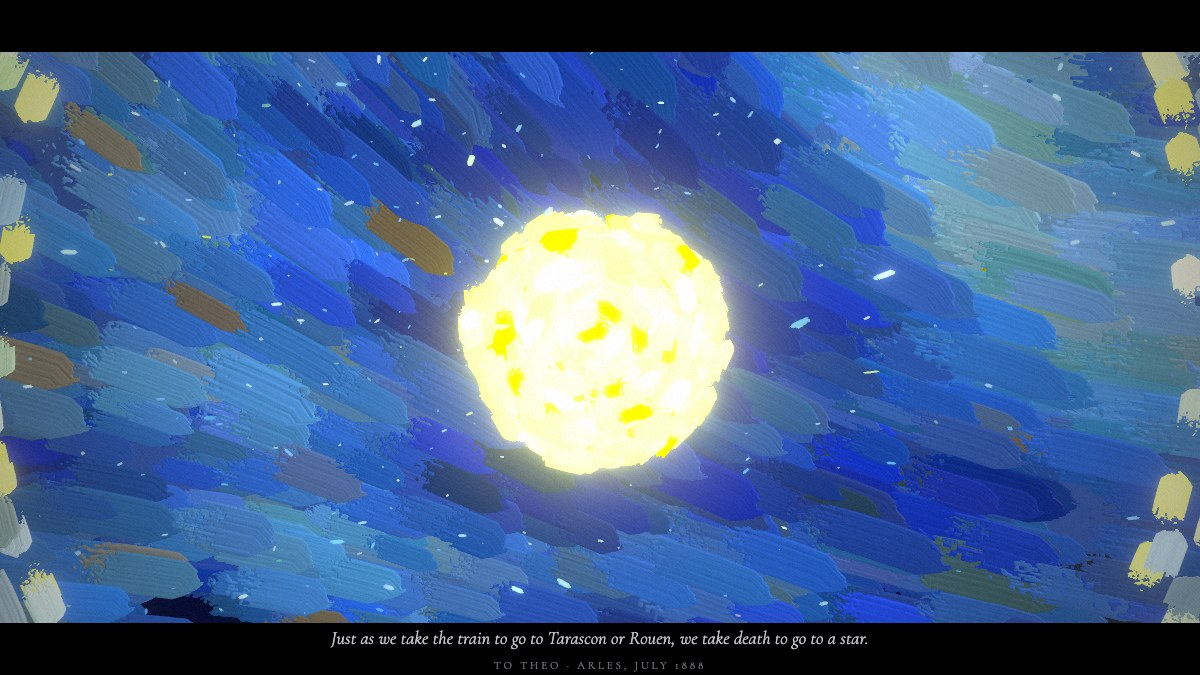
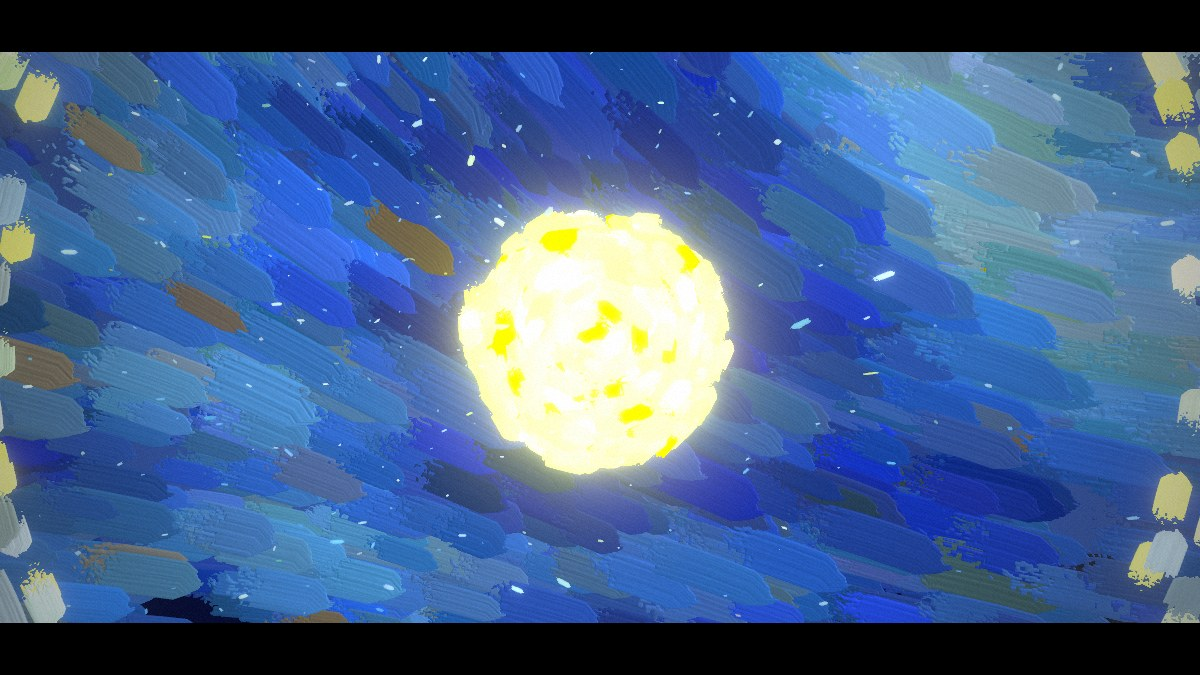
E2.2: no line at the end -- letter 638 taken off the morning star, and the star's well and its light go without words

Changed region(s): [[0.2775, 0.9333, 0.74, 0.9956], [0.8942, 0.8089, 0.925, 0.84], [0.7092, 0.5289, 0.74, 0.56]]

diff --git a/src/film.js b/src/film.js
@@ -16,8 +16,8 @@
 // direction in the sky, or the way ahead -- and the gaze eases from one to the next. (3) The body banks into its
 // turns a little, as a bird does, and breathes; the lens widens with speed. (4) The world's clock is the film's to
 // bend: held nearly still at the top of the spire, where the loose sunflowers hang, and hurried in the sky, where the
-// swirls and the rings turn three times as fast. (5) His words, one an act, in the black band under the picture:
-// the lines the piece already quotes. It is silent, as the piece is (D5).
+// swirls and the rings turn three times as fast. (5) His words, in the black band under the picture: three of the
+// lines the piece already quotes, and none down the star's well. It is silent, as the piece is (D5).
 //
 // Everything here is a function of the film's time, so any frame can be had by asking for it (`dream.film.seek`) and
 // the loop is exact. What is not is yours: the eye, which a drag turns while the dream carries the body and which
@@ -37,13 +37,13 @@ const mix = (a, b, u) => [a[0] + (b[0] - a[0]) * u, a[1] + (b[1] - a[1]) * u, a[
 const nlerp = (a, b, u) => norm3(mix(a, b, u));
 const GRADE = ['warm', 'sat', 'bloom', 'exposure', 'vignette'];
 
-// His words, one an act: only lines the piece already quotes -- letter 777 is the opening's caption (main.js), the
-// other three are checked against the edition in letters/letters.json (DESIGN 9: vangoghletters.org, CC BY-NC-SA 4.0)
+// His words: only lines the piece already quotes -- letter 777 is the opening's caption (main.js), the other two
+// are checked against the edition in letters/letters.json (DESIGN 9: vangoghletters.org, CC BY-NC-SA 4.0). Letter
+// 638's, the piece's own line, came down the star's well until E2.2, and the author took it out
 export const LINES = {
   777: { text: 'This morning I saw the countryside from my window a long time before sunrise, with nothing but the morning star, which looked very big.', by: 'to Theo · Saint-Rémy, June 1889' },
   678: { text: 'Now there’s a painting of night without black.', by: 'to Wil · Arles, September 1888' },
   691: { text: '…the starry sky at last, actually painted at night, under a gas-lamp.', by: 'to Theo · Arles, September 1888' },
-  638: { text: 'Just as we take the train to go to Tarascon or Rouen, we take death to go to a star.', by: 'to Theo · Arles, July 1888' },
 };
 
 // The places. Each says where the body passes (p), how fast it is going there (v, m/s), what the eye looks at
@@ -118,7 +118,7 @@ export function script(E, plot) {
     ...helix,
     { name: 'the glide', p: glide(240), v: 52, look: swirlEye, time: 1.8, turn: [0, 0.6], grade: { bloom: 0.15 } },
     { p: glide(470), v: 58, look: swirlEye, time: 2, grade: { bloom: 0.2 } },
-    { name: 'the morning star', p: star.at(760), v: 60, look: at(star.C), time: 2.4, turn: [0.15, 1], title: { id: 638, delay: 1, dur: 10 }, grade: { bloom: 0.3 } },
+    { name: 'the morning star', p: star.at(760), v: 60, look: at(star.C), time: 2.4, turn: [0.15, 1], grade: { bloom: 0.3 } },
     // down the well the lens opens, so that its rings, each wider than the one before it, pass through the frame
     // and out of it one by one and do not all go out of it at once and leave the core alone in the dark. And the
     // body does not slow for the core: the last ring is out of the frame's corners 190 m short of the blaze, and

diff --git a/README.md b/README.md
@@ -28,9 +28,9 @@ spire, where the clock nearly stops and the loose sunflowers hang; a fall to the
 water to the moon's gold; a wide turning climb out of it with the valley wheeling under you; a glide into the great
 swirl; and down the morning star's well, through its turning rings, to its core. There the light takes the frame,
 and you wake on the knoll with the world painting itself in round you again. Two black bands close in as a film's
-frame does, and four of his lines come in the lower one, one an act. A drag looks round while the dream carries
-you; an arrow, a place key, `Esc` or `Space` hands the body back where it is, and it comes to rest. On a phone,
-*the dream* in the corner.
+frame does, and three of his lines come in the lower one. A drag looks round while the dream carries you; an
+arrow, a place key, `Esc` or `Space` hands the body back where it is, and it comes to rest. On a phone, *the dream*
+in the corner.
 
 Its sibling, *The World of Van Gogh* (github.com/Victor-EU/the-world-of-van-gogh), is a walk along a road through
 fourteen of his paintings. This piece is built clean beside it, from the same stroke records.

diff --git a/BUILD.md b/BUILD.md
@@ -2266,3 +2266,13 @@ which is as far before the end as E2's 179 s was. All headless, 1200 × 675.
 the air at night, and at 98 s they are still the lower half of the frame: the eye is turned from them, but they are
 not painted for it. The ground's paint lies turned to the knoll, and wherever the film looks at it from low and
 near, it is sparse.
+
+### E2.2 — No line at the end  *(the author's word: "remove the last line at the end of the autoplay"; the same day)*
+
+Letter 638 (*we take death to go to a star*) came in the lower band at the morning star, from 158 s. Since E2.1's
+faster way down the well, it was still up as the light rose, to 168 s. It is taken out: the morning star's place
+has no line, and `LINES` in `src/film.js` has three. The film's words are now 777 on the knoll, 678 in the street
+and 691 on the river, and from 111.5 s to the end the band is empty. Nothing else moved: the film is 174.0 s, with
+the same places and the same times. The line is still the piece's own, in `letters/lines.json` and DESIGN.md.
+
+**Pictures.** `e2-the-last-ring` re-taken at 166.8 s without it.
